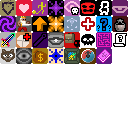
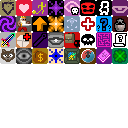
ReInc 0.7.0: reworked clover from trinket into the conduct: - reduced max dmg chance from 60% to 50% - now affects minions and Conjurer's spells

Changed region(s): [[0.875, 0.375, 1.0, 0.5]]

diff --git a/core/src/main/java/com/shatteredpixel/shatteredpixeldungeon/items/Generator.java b/core/src/main/java/com/shatteredpixel/shatteredpixeldungeon/items/Generator.java
@@ -139,7 +139,6 @@ import com.shatteredpixel.shatteredpixeldungeon.items.trinkets.PetrifiedSeed;
 import com.shatteredpixel.shatteredpixeldungeon.items.trinkets.RatSkull;
 import com.shatteredpixel.shatteredpixeldungeon.items.trinkets.SaltCube;
 import com.shatteredpixel.shatteredpixeldungeon.items.trinkets.ShardOfOblivion;
-import com.shatteredpixel.shatteredpixeldungeon.items.trinkets.ThirteenLeafClover;
 import com.shatteredpixel.shatteredpixeldungeon.items.trinkets.TrapMechanism;
 import com.shatteredpixel.shatteredpixeldungeon.items.trinkets.Trinket;
 import com.shatteredpixel.shatteredpixeldungeon.items.trinkets.TrinketCatalyst;
@@ -628,7 +627,6 @@ public class Generator {
 					ExoticCrystals.class,
 					MossyClump.class,
 					DimensionalSundial.class,
-					ThirteenLeafClover.class,
 					TrapMechanism.class,
 					MimicTooth.class,
 					WondrousResin.class,
@@ -640,7 +638,7 @@ public class Generator {
 					FerretTuft.class,
 					CrackedSpyglass.class
 			};
-			TRINKET.defaultProbs = new float[]{ 1, 1, 1, 1, 1, 1, 1, 1, 1, 1, 1, 1, 1, 1, 1, 1, 1 };
+			TRINKET.defaultProbs = new float[]{ 1, 1, 1, 1, 1, 1, 1, 1, 1, 1, 1, 1, 1, 1, 1, 1 };
 			TRINKET.probs = TRINKET.defaultProbs.clone();
 
 			for (Category cat : Category.values()){

diff --git a/core/src/main/java/com/shatteredpixel/shatteredpixeldungeon/actors/mobs/minions/Minion.java b/core/src/main/java/com/shatteredpixel/shatteredpixeldungeon/actors/mobs/minions/Minion.java
@@ -39,6 +39,7 @@ import com.shatteredpixel.shatteredpixeldungeon.actors.buffs.Regeneration;
 import com.shatteredpixel.shatteredpixeldungeon.actors.buffs.SoulSparking;
 import com.shatteredpixel.shatteredpixeldungeon.actors.buffs.powers.ArmoredShielding;
 import com.shatteredpixel.shatteredpixeldungeon.actors.buffs.powers.HolyAuraBuff;
+import com.shatteredpixel.shatteredpixeldungeon.actors.hero.Hero;
 import com.shatteredpixel.shatteredpixeldungeon.actors.hero.Talent;
 import com.shatteredpixel.shatteredpixeldungeon.actors.hero.abilities.conjurer.Ascension;
 import com.shatteredpixel.shatteredpixeldungeon.actors.mobs.Mob;
@@ -223,7 +224,7 @@ public class Minion extends Mob implements ManaSource {
 
     @Override
     public int damageRoll() {
-        int i = Random.NormalIntRange(minDamage, maxDamage);
+        int i = Hero.heroDamageIntRange(minDamage, maxDamage);
         if (Dungeon.hero.buff(SoulSparking.class) != null) i *= SoulSparking.empowering();
         if (buff(Chungus.class) != null) i*=1.4f;
         if (buff(Fury.class) != null) i*=1.5f;

diff --git a/core/src/main/java/com/shatteredpixel/shatteredpixeldungeon/items/trinkets/ThirteenLeafClover.java b/core/src/main/java/com/shatteredpixel/shatteredpixeldungeon/items/trinkets/ThirteenLeafClover.java
@@ -24,6 +24,8 @@
 
 package com.shatteredpixel.shatteredpixeldungeon.items.trinkets;
 
+import com.shatteredpixel.shatteredpixeldungeon.Conducts;
+import com.shatteredpixel.shatteredpixeldungeon.Dungeon;
 import com.shatteredpixel.shatteredpixeldungeon.messages.Messages;
 import com.shatteredpixel.shatteredpixeldungeon.sprites.ItemSpriteSheet;
 import com.watabou.utils.Random;
@@ -50,6 +52,8 @@ public class ThirteenLeafClover extends Trinket {
 	}
 
 	public static float alterHeroDamageChance(){
+		if (Dungeon.isChallenged(Conducts.Conduct.CLOVER))
+			return 1.0f;
 		return alterHeroDamageChance(trinketLevel(ThirteenLeafClover.class));
 	}
 
@@ -61,7 +65,7 @@ public class ThirteenLeafClover extends Trinket {
 		}
 	}
 
-	private static float MAX_CHANCE = 0.6f;
+	private static float MAX_CHANCE = 0.5f;
 
 	public static int alterDamageRoll(int min, int max){
 		if (Random.Float() < MAX_CHANCE){

diff --git a/core/src/main/java/com/shatteredpixel/shatteredpixeldungeon/items/magic/knight/ShardsOfDespair.java b/core/src/main/java/com/shatteredpixel/shatteredpixeldungeon/items/magic/knight/ShardsOfDespair.java
@@ -45,7 +45,6 @@ import com.shatteredpixel.shatteredpixeldungeon.utils.GLog;
 import com.watabou.noosa.audio.Sample;
 import com.watabou.utils.Callback;
 import com.watabou.utils.GameMath;
-import com.watabou.utils.Random;
 
 import java.text.DecimalFormat;
 import java.util.HashMap;
@@ -146,7 +145,7 @@ public class ShardsOfDespair extends AdHocSpell {
 
     private int damage(int rank){
         switch (rank){
-            case 2: case 3: return Random.NormalIntRange(minDamage(rank), maxDamage(rank));
+            case 2: case 3: return Hero.heroDamageIntRange(minDamage(rank), maxDamage(rank));
         }
         return 0;
     }

diff --git a/core/src/main/java/com/shatteredpixel/shatteredpixeldungeon/items/magic/StarBlazing.java b/core/src/main/java/com/shatteredpixel/shatteredpixeldungeon/items/magic/StarBlazing.java
@@ -142,7 +142,7 @@ public class StarBlazing extends ConjurerSpell implements DamageSource {
     }
 
     private int damageRoll() {
-        return Random.NormalIntRange(min(), max());
+        return Hero.heroDamageIntRange(min(), max());
     }
 
     @Override

diff --git a/core/src/main/java/com/shatteredpixel/shatteredpixeldungeon/Conducts.java b/core/src/main/java/com/shatteredpixel/shatteredpixeldungeon/Conducts.java
@@ -69,6 +69,7 @@ public class Conducts {
             }
         },
         CURSE(1.4f, 19),
+        CLOVER(1.15f, 32),
         SHADOWS(1.4f, 26),
         HORDES(1.75f, 29),
         ALLSIGHT(1.4f, 20),
